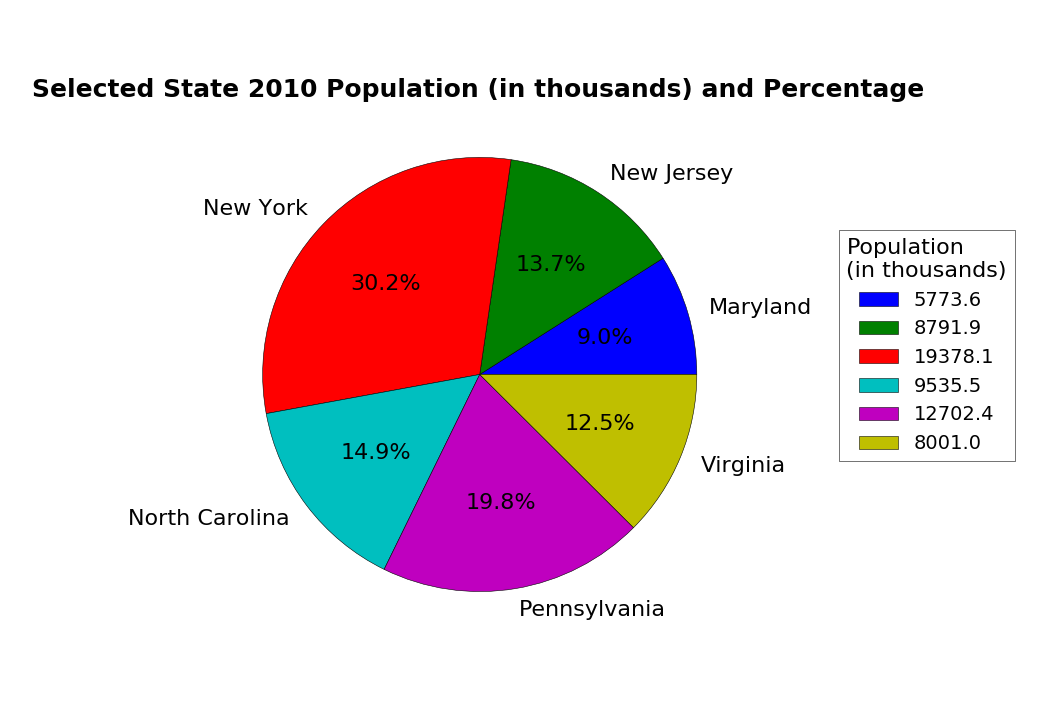
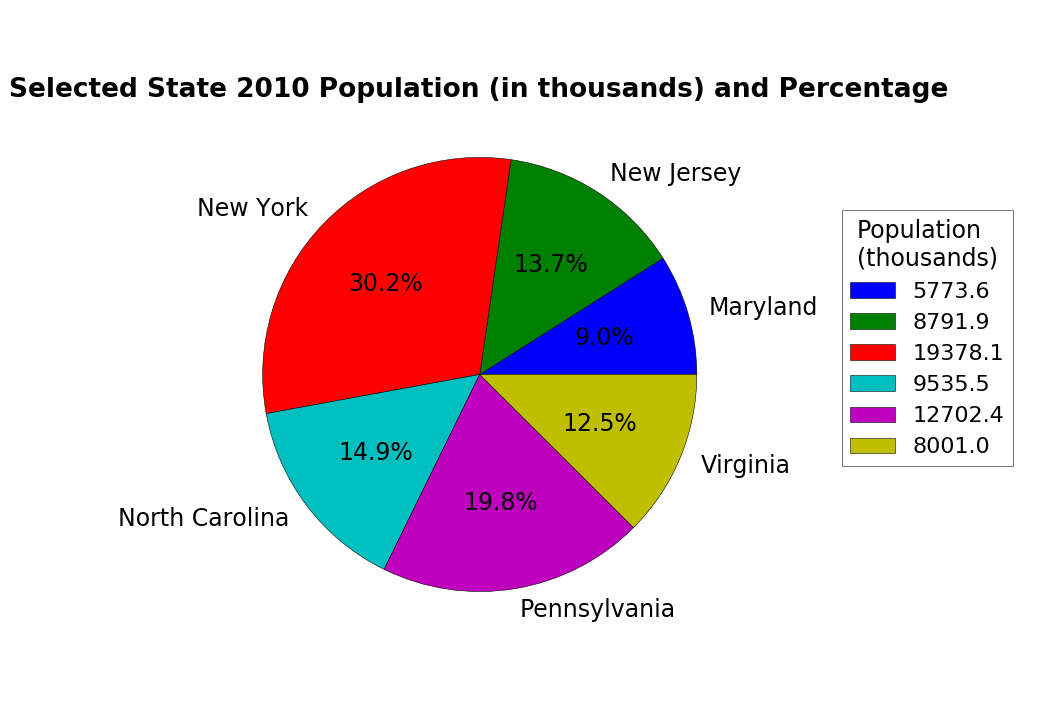
modify pie chart
increase size of all plot text

diff --git a/pie_chart.py b/pie_chart.py
@@ -46,20 +46,20 @@ one, two, three = ax1.pie(sizes,
         autopct = '%1.1f%%')
 
 # Set state label font size.
-two[0].set_fontsize(16)
-two[1].set_fontsize(16)
-two[2].set_fontsize(16)
-two[3].set_fontsize(16)
-two[4].set_fontsize(16)
-two[5].set_fontsize(16)
+two[0].set_fontsize(17)
+two[1].set_fontsize(17)
+two[2].set_fontsize(17)
+two[3].set_fontsize(17)
+two[4].set_fontsize(17)
+two[5].set_fontsize(17)
 
 # Set percentage label font size.
-three[0].set_fontsize(16)
-three[1].set_fontsize(16)
-three[2].set_fontsize(16)
-three[3].set_fontsize(16)
-three[4].set_fontsize(16)
-three[5].set_fontsize(16)
+three[0].set_fontsize(17)
+three[1].set_fontsize(17)
+three[2].set_fontsize(17)
+three[3].set_fontsize(17)
+three[4].set_fontsize(17)
+three[5].set_fontsize(17)
 
 # Remove weird default pie chart tilt.
 plt.axis('equal')
@@ -70,7 +70,7 @@ ax1.title.set_position([0.5, 0.9])
 # Set plot titles.
 plt.title('Selected State 2010 Population (in thousands) and Percentage',
           fontweight = 'bold',
-          fontsize = 18)
+          fontsize = 19)
 
 # Adjust plot margins.
 plt.subplots_adjust(left = 0.25,
@@ -79,11 +79,11 @@ plt.subplots_adjust(left = 0.25,
                     top = 0.95)
 
 # Add legend.
-legend = plt.legend(title = 'Population\n(in thousands)',
+legend = plt.legend(title = 'Population\n(thousands)',
            labels = census_subset['2010'].round(1),
-           fontsize = 14,
-           bbox_to_anchor = (1.75, 0.7285))
-plt.setp(legend.get_title(), fontsize = 16)
+           fontsize = 16,
+           bbox_to_anchor = (1.75, 0.76))
+plt.setp(legend.get_title(), fontsize = 17)
 
 # Show plot.
 plt.show()
